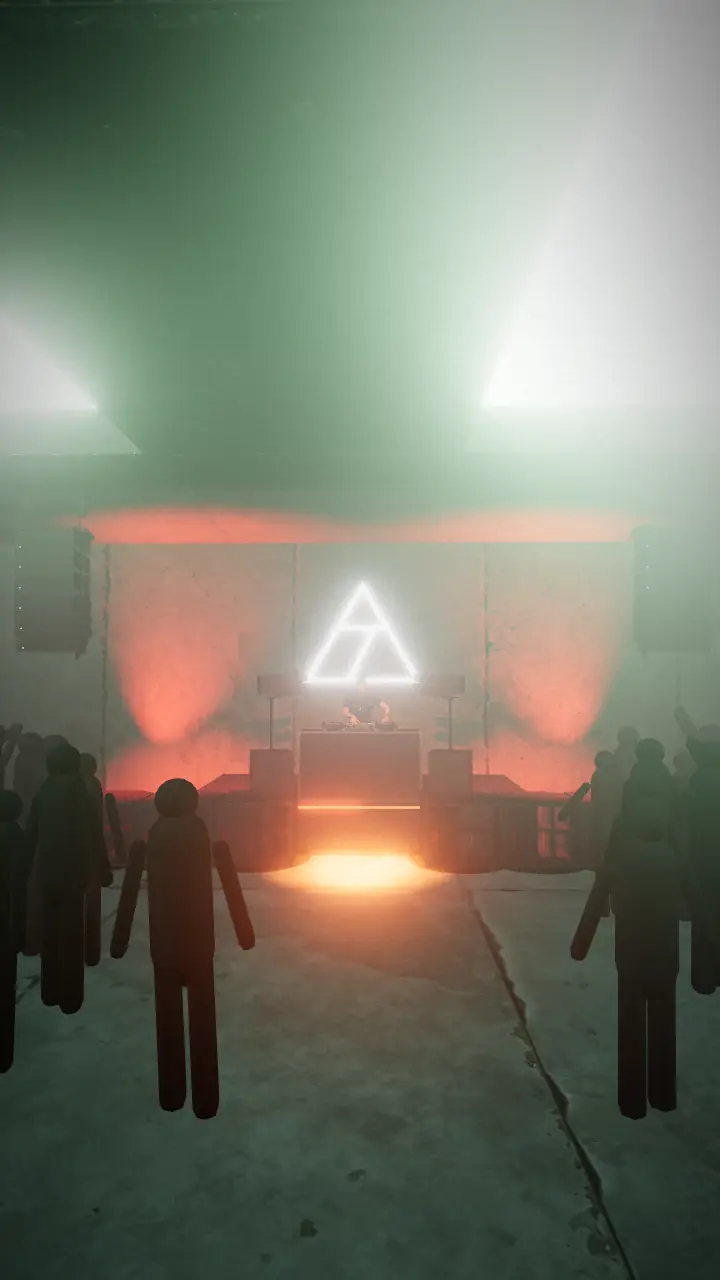
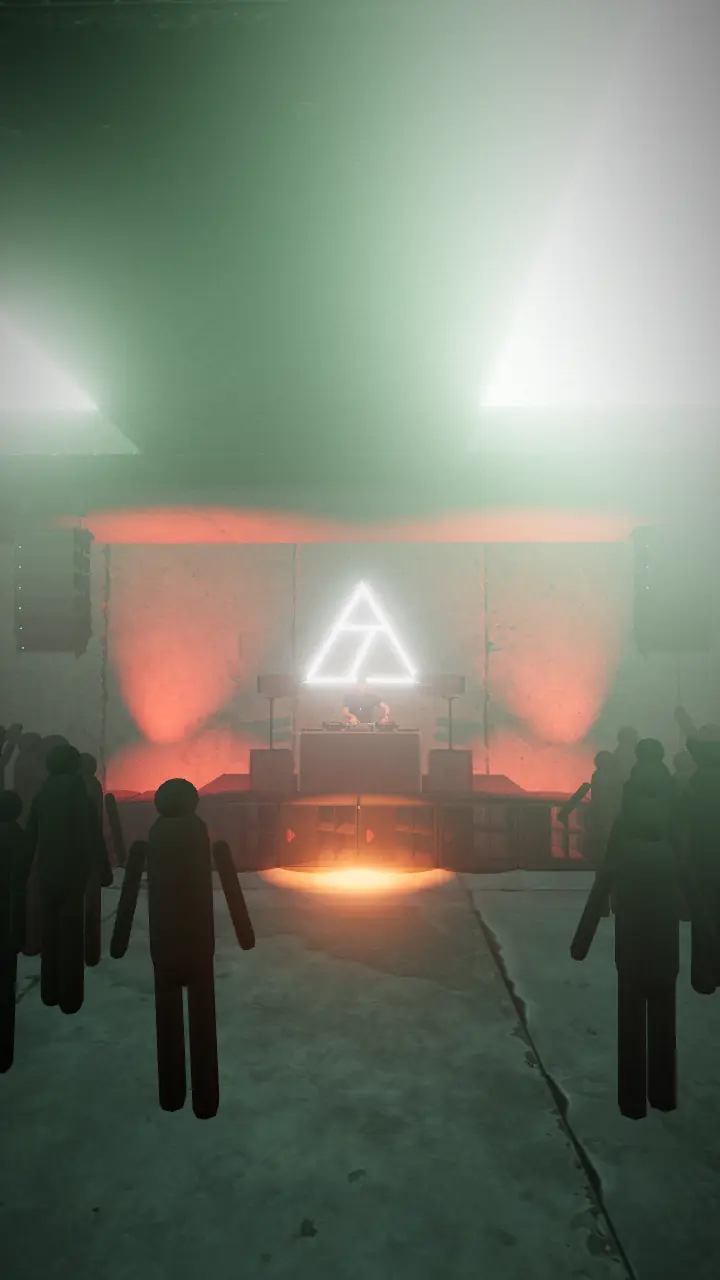
feat(sets): fileira contínua de 10 subs deitados na frente do riser (+2 no centro)

Changed region(s): [[0.2139, 0.5625, 0.7944, 0.8125]]

diff --git a/src/lib/underground/layout.js b/src/lib/underground/layout.js
@@ -84,18 +84,18 @@ export const BOOTH = {
   deskLamp: { position: [0, 1.9, -17.0], intensity: 0.25 }, // soft warm light so the gear reads
 };
 
-// Sub layouts. 'front': 8 subs laid on their side (wide), a row of 4 per side along the front of the riser,
-// leaving the centre clear so the riser LED + booth read from the dance floor. 'row' = the old straight row of 6 upright.
+// Sub layouts. 'front': 10 subs laid on their side (wide), one continuous row along the front of the riser
+// (5 per side of the centre line). 'row' = the old straight row of 6 upright.
 // Sub fields: x/z = centre of the footprint, rotY, level (0 = floor, 1 = stacked), lay: true = on its side.
 export const SUB_LAYOUT = 'front';
 
 const SUB_W = 0.97; // sub width when laid on its side (model is 0.95 m tall upright) + a small gap
-const FRONT_X = 0.8; // half of the clear gap in front of the booth
+const FRONT_COUNT = 10; // subs in the front row
 export const SUB_LAYOUTS = {
   front: {
-    subs: [0, 1, 2, 3].flatMap((i) => [-1, 1].map((sx) => ({
-      x: sx * (FRONT_X + SUB_W / 2 + i * SUB_W), z: -16.16, rotY: 0, level: 0, lay: true,
-    }))),
+    subs: Array.from({ length: FRONT_COUNT }, (_, i) => ({
+      x: (i - (FRONT_COUNT - 1) / 2) * SUB_W, z: -16.16, rotY: 0, level: 0, lay: true,
+    })),
     tops: [],
   },
   row: {

diff --git a/src/lib/underground/README.md b/src/lib/underground/README.md
@@ -12,8 +12,8 @@ full-viewport background of `/sets` through its embed API (`embed.js` → `mount
     (`rig.userData.mixers`, stepped in `app.js`).
   - `app.js`: venue GLB also in embed mode, `MODELS.sub` optional, roof light shafts hidden with a GLB venue.
   - `lights.js`: sodium lamp height follows `WAREHOUSE.eaveHeight`.
-  - Stage PA (Tulio only, no tops): `layout.js` → `SUB_LAYOUT 'front'` = 8 Cerwin-Vega subs laid on their side
-    (`lay: true`, handled in `rig.js`), 4 per side along the front of the riser with the centre left clear.
+  - Stage PA (Tulio only, no tops): `layout.js` → `SUB_LAYOUT 'front'` = 10 Cerwin-Vega subs laid on their side
+    (`lay: true`, handled in `rig.js`) in one continuous row along the front of the riser.
   - `lineArray.js` (Tulio only): two flown line-array hangs (procedural three.js geometry: fly bar on chain hoists,
     6 wedge cabinets in a J-curve) above the outer subs; config in `layout.js` → `LINE_ARRAY`.
     `createCabinetBuilder()` builds one wedge cabinet of any size (reused by the monitors).
